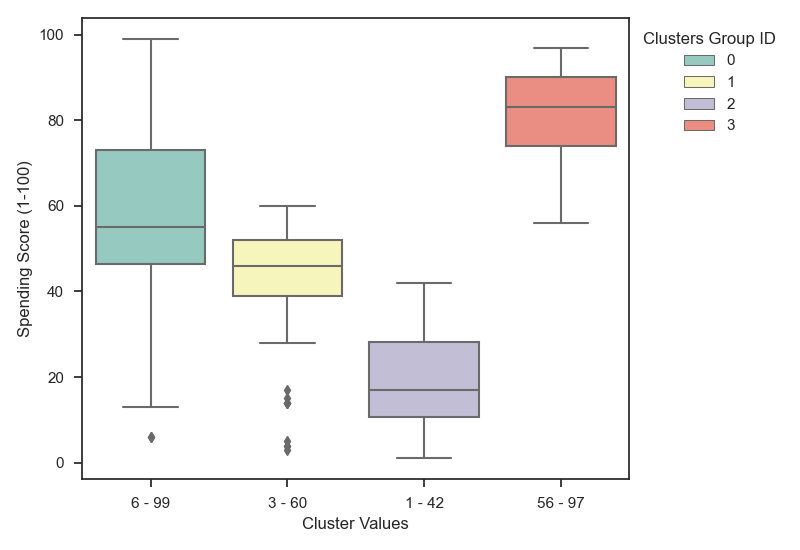
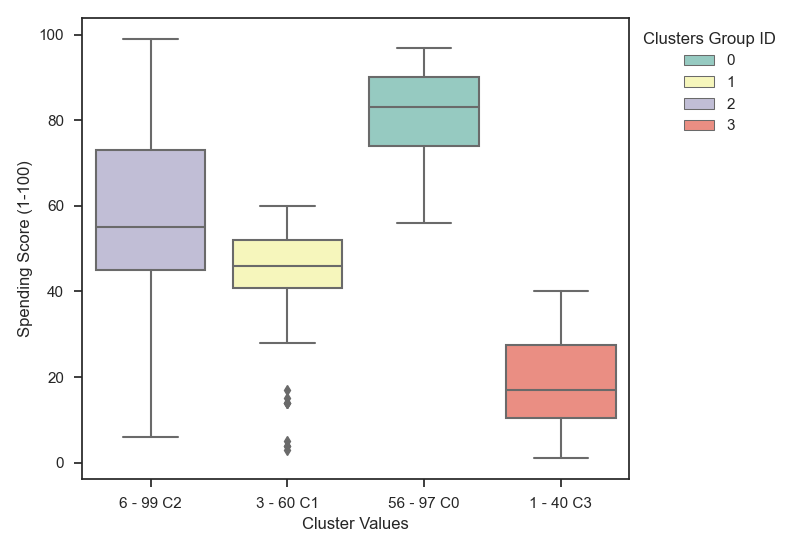
final touches, complete

diff --git a/Marketing_AI_ML/Assignment 6/assignment_six.py b/Marketing_AI_ML/Assignment 6/assignment_six.py
@@ -33,11 +33,14 @@ kmeans.fit(scaled_features)
 data_with_clusters = data.copy()
 data_with_clusters['Clusters'] = kmeans.labels_
 
+
+
 # defining clusters into 4 sepearte DFs
 c0 = data_with_clusters.loc[data_with_clusters['Clusters'] == 0]
 c1 = data_with_clusters.loc[data_with_clusters['Clusters'] == 1]
 c2 = data_with_clusters.loc[data_with_clusters['Clusters'] == 2]
 c3 = data_with_clusters.loc[data_with_clusters['Clusters'] == 3]
+
 
 def elbow_chart():
     visualizer = KElbowVisualizer(KMeans(), k=(1,15)).fit(scaled_features)
@@ -50,19 +53,19 @@ def age_chart():
     #building the cluster labels
     c0_min = min(c0['Age'])
     c0_max = max(c0['Age'])
-    c0_range = ('{} - {}'.format(c0_min, c0_max))
+    c0_range = ('{} - {} C0'.format(c0_min, c0_max))
 
     c1_min = min(c1['Age'])
     c1_max = max(c1['Age'])
-    c1_range = ('{} - {}'.format(c1_min, c1_max))
+    c1_range = ('{} - {} C1'.format(c1_min, c1_max))
 
     c2_min = min(c2['Age'])
     c2_max = max(c2['Age'])
-    c2_range = ('{} - {}'.format(c2_min, c2_max))
+    c2_range = ('{} - {} C2'.format(c2_min, c2_max))
 
     c3_min = min(c3['Age'])
     c3_max = max(c3['Age'])
-    c3_range = ('{} - {}'.format(c3_min, c3_max))
+    c3_range = ('{} - {} C3'.format(c3_min, c3_max))
 
     # the labels would normally have the cluster IDs. i'm replacing them with the cluster ranges above
     data_with_clusters['Cluster Values'] = data_with_clusters['Clusters'].replace([0,1,2,3], [c0_range, c1_range, c2_range, c3_range])
@@ -77,19 +80,19 @@ def Annual_Income_chart():
     #building the cluster labels
     c0_min = min(c0['Annual Income (k$)'])
     c0_max = max(c0['Annual Income (k$)'])
-    c0_range = ('{} - {}'.format(c0_min, c0_max))
+    c0_range = ('{} - {} C0'.format(c0_min, c0_max))
 
     c1_min = min(c1['Annual Income (k$)'])
     c1_max = max(c1['Annual Income (k$)'])
-    c1_range = ('{} - {}'.format(c1_min, c1_max))
+    c1_range = ('{} - {} C1'.format(c1_min, c1_max))
 
     c2_min = min(c2['Annual Income (k$)'])
     c2_max = max(c2['Annual Income (k$)'])
-    c2_range = ('{} - {}'.format(c2_min, c2_max))
+    c2_range = ('{} - {} C2'.format(c2_min, c2_max))
 
     c3_min = min(c3['Annual Income (k$)'])
     c3_max = max(c3['Annual Income (k$)'])
-    c3_range = ('{} - {}'.format(c3_min, c3_max))
+    c3_range = ('{} - {} C3'.format(c3_min, c3_max))
 
     # the labels would normally have the cluster IDs. i'm replacing them with the cluster ranges above
     data_with_clusters['Cluster Values'] = data_with_clusters['Clusters'].replace([0,1,2,3], [c0_range, c1_range, c2_range, c3_range])
@@ -105,19 +108,19 @@ def Spending_Score_chart():
     #building the cluster labels
     c0_min = min(c0['Spending Score (1-100)'])
     c0_max = max(c0['Spending Score (1-100)'])
-    c0_range = ('{} - {}'.format(c0_min, c0_max))
+    c0_range = ('{} - {} C0'.format(c0_min, c0_max))
 
     c1_min = min(c1['Spending Score (1-100)'])
     c1_max = max(c1['Spending Score (1-100)'])
-    c1_range = ('{} - {}'.format(c1_min, c1_max))
+    c1_range = ('{} - {} C1'.format(c1_min, c1_max))
 
     c2_min = min(c2['Spending Score (1-100)'])
     c2_max = max(c2['Spending Score (1-100)'])
-    c2_range = ('{} - {}'.format(c2_min, c2_max))
+    c2_range = ('{} - {} C2'.format(c2_min, c2_max))
 
     c3_min = min(c3['Spending Score (1-100)'])
     c3_max = max(c3['Spending Score (1-100)'])
-    c3_range = ('{} - {}'.format(c3_min, c3_max))
+    c3_range = ('{} - {} C3'.format(c3_min, c3_max))
 
     # the labels would normally have the cluster IDs. i'm replacing them with the cluster ranges above
     data_with_clusters['Cluster Values'] = data_with_clusters['Clusters'].replace([0,1,2,3], [c0_range, c1_range, c2_range, c3_range])
@@ -130,9 +133,38 @@ def Spending_Score_chart():
 
 def overall_data():
     #since for the project I selected Cluster 3 for analysis, i'm doing analysis for that cluster.
+    #linear regression plots
+    df = c3
+
+    sns.lmplot(x='Annual Income (k$)', y='Spending Score (1-100)', data = df)
+    sns.lmplot(x='Age', y='Spending Score (1-100)', data = df)
+    sns.lmplot(x='Age', y='Annual Income (k$)', data = df)
+    print("\n")
+    plt.show()
+
+    x = df['Age']
+    y = df['Annual Income (k$)']
+    z = df['Spending Score (1-100)']
+
+    #performing different correlation analysis 
+    income_spend_corr = y.corr(z)
+    age_spend_corr = x.corr(z)
+    age_income_corr = x.corr(y)
+    correlation = ' Correlation: \nincome_spending correlation: {} \nage_spending correlation: {}\nage_income correlation: {}\n'.format(income_spend_corr, age_spend_corr, age_income_corr)
+    print(correlation)
+    print("\n")
+
+    #performing different means of each attribute
+    age_mean = df['Age'].mean()
+    income_mean = df['Annual Income (k$)'].mean()
+    spend_mean = df['Spending Score (1-100)'].mean()
+    means = ' means: \nage mean: {} \nspend mean: {} \nincome mean: {}'.format(age_mean, spend_mean, income_mean)
+    print(means)
+    print("\n")
 
     #ols can't handle non-alphanumeric characters
     c3.rename(columns={'Spending Score (1-100)': "Spend", 'Annual Income (k$)':'Income'}, inplace=True)
+    #performing ANOVA
     lm = ols('Spend ~ Gender + Age + Income', data=c3).fit()
     print('Male & Female stats')
     print(lm.summary())
@@ -145,12 +177,15 @@ def gender_data(gender_id):
         if gender_id == value:
             gender_name = key
 
+    
     #only selecting values that match the gender ID from the cluster selected
     df = c3.loc[c3['Gender'] == gender_id]
+    # print(df)
     #linear regression plots
     sns.lmplot(x='Annual Income (k$)', y='Spending Score (1-100)', data = df)
     sns.lmplot(x='Age', y='Spending Score (1-100)', data = df)
     sns.lmplot(x='Age', y='Annual Income (k$)', data = df)
+    plt.show()
 
     x = df['Age']
     y = df['Annual Income (k$)']
@@ -173,7 +208,6 @@ def gender_data(gender_id):
     #ANOVA 
     df.rename(columns={'Spending Score (1-100)': "Spend", 'Annual Income (k$)':'Income'}, inplace=True)
     lm = ols('Spend ~ Age + Income', data=df).fit()
-    table = sm.stats.anova_lm(lm)
     print(lm.summary())
 
 if __name__ == "__main__":
@@ -181,6 +215,8 @@ if __name__ == "__main__":
     # Annual_Income_chart()
     # Spending_Score_chart()
     # elbow_chart()
-    # gender_data(1)
-    # gender_data(2)
-    overall_data()
+    
+    # overall_data()
+    # male = gender_data(1)
+    # female = gender_data(2)
+    

diff --git a/Marketing_AI_ML/Assignment 6/notebook_assignment_six.py b/Marketing_AI_ML/Assignment 6/notebook_assignment_six.py
@@ -2,55 +2,115 @@
 # %%
 import pandas as pd
 import numpy as np
-from matplotlib import pyplot as plt
 from sklearn.cluster import KMeans
 from sklearn.preprocessing import StandardScaler
 from yellowbrick.cluster import KElbowVisualizer
-import seaborn as sns
+from sklearn.metrics import r2_score
+import matplotlib.pyplot as plt
+import os 
+import seaborn as sns; sns.set(style="ticks", color_codes=True)
+from scipy.stats import ttest_1samp, f_oneway, ttest_ind
+import statsmodels.api as sm
+from statsmodels.formula.api import ols
 
+current_dir = os.getcwd()
+
+# defining the file and dropping genre since pandas doesn't like strings
 file_name = "Mall_Customers.csv"
-df = pd.read_csv(file_name)
+df = pd.read_csv(file_name).rename(columns={'Genre': 'Gender'})
+gender_cat = {'Male': 1, 'Female': 2}
+# data = df.drop(columns=['Genre'])
+df['Gender'] = df['Gender'].map(gender_cat)
+data = df
 
-data = df.drop(columns=['Genre'])
-
+#using a scaler to standardize the data
 scaler = StandardScaler()
 scaled_features = scaler.fit_transform(data)
 
-visualizer = KElbowVisualizer(KMeans(), k=(1,15)).fit(scaled_features)
-plt.legend(loc=2, bbox_to_anchor= (1,1))
-visualizer.show()
-#%%
+#After looking at the elbow_chart function below, determined n_clusters to be 4. Now fitting the scaled_features to
+# a 4 seed cluster
 kmeans = KMeans(n_clusters=4, init='k-means++', max_iter=300, n_init=15, random_state=0)
 kmeans.fit(scaled_features)
 
-scaled_features
-
+#copying the fitted data to a new df, and adding the clusters column 
 data_with_clusters = data.copy()
 data_with_clusters['Clusters'] = kmeans.labels_
-#%%
+
+# defining clusters into 4 sepearte DFs
 c0 = data_with_clusters.loc[data_with_clusters['Clusters'] == 0]
 c1 = data_with_clusters.loc[data_with_clusters['Clusters'] == 1]
 c2 = data_with_clusters.loc[data_with_clusters['Clusters'] == 2]
 c3 = data_with_clusters.loc[data_with_clusters['Clusters'] == 3]
+c3
+#%%
+sns.lmplot(x='Annual Income (k$)', y='Spending Score (1-100)', data = c3)
+sns.lmplot(x='Age', y='Spending Score (1-100)', data = c3)
+sns.lmplot(x='Age', y='Annual Income (k$)', data = c3)
 
-c0_min = min(c0['Age'])
-c0_max = max(c0['Age'])
-c0_range = ('{} - {}'.format(c0_min, c0_max))
+x = c3['Age']
+y = c3['Annual Income (k$)']
+z = c3['Spending Score (1-100)']
 
-c1_min = min(c1['Age'])
-c1_max = max(c1['Age'])
-c1_range = ('{} - {}'.format(c1_min, c1_max))
+age_income_corr = x.corr(y)
+age_spend_corr = x.corr(z)
+income_spend_corr = y.corr(z)
+#%%
+male_df = c3.loc[c3['Gender'] == 1]
+male_df
 
-c2_min = min(c2['Age'])
-c2_max = max(c2['Age'])
-c2_range = ('{} - {}'.format(c2_min, c2_max))
+sns.lmplot(x='Annual Income (k$)', y='Spending Score (1-100)', data = male_df)
+sns.lmplot(x='Age', y='Spending Score (1-100)', data = male_df)
+sns.lmplot(x='Age', y='Annual Income (k$)', data = male_df)
 
-c3_min = min(c3['Age'])
-c3_max = max(c3['Age'])
-c3_range = ('{} - {}'.format(c3_min, c3_max))
+m_x = male_df['Age']
+m_y = male_df['Annual Income (k$)']
+m_z = male_df['Spending Score (1-100)']
 
-data_with_clusters['Clusters'] = data_with_clusters['Clusters'].replace([0,1,2,3], [c0_range, c1_range, c2_range, c3_range])
-box = sns.boxplot(x=data_with_clusters['Clusters'], y=data_with_clusters['Age'], palette="Set3")
+m_income_spend_corr = y.corr(z)
+m_age_spend_corr = x.corr(z)
+m_age_income_corr = x.corr(y)
+
+m_age_mean = male_df['Age'].mean()
+m_spend_mean = male_df['Annual Income (k$)'].mean()
+m_income_mean = male_df['Spending Score (1-100)'].mean()
+
 # %%
-kmeans.labels_
+female_df = c3.loc[c3['Gender'] == 2]
+sns.lmplot(x='Annual Income (k$)', y='Spending Score (1-100)', data = female_df)
+sns.lmplot(x='Age', y='Spending Score (1-100)', data = female_df)
+sns.lmplot(x='Age', y='Annual Income (k$)', data = female_df)
+
+f_x = female_df['Age']
+f_y = female_df['Annual Income (k$)']
+f_z = female_df['Spending Score (1-100)']
+
+f_income_spend_corr = y.corr(z)
+f_age_spend_corr = x.corr(z)
+f_age_income_corr = x.corr(y)
+
+f_age_mean = male_df['Age'].mean()
+f_spend_mean = male_df['Annual Income (k$)'].mean()
+f_income_mean = male_df['Spending Score (1-100)'].mean()
+
+ 
+#%%
+test = ttest_1samp(female_df['Age'], b=female_df['Spending Score (1-100)'].mean(), equal_var=True)
+test
+# %%
+df = data.rename(columns={'Spending Score (1-100)': "Spend", 'Annual Income (k$)':'Income'}, inplace=True)
+# %%
+lm = ols('Spend ~ Gender + Age + Income', data=c3).fit()
+table = sm.stats.anova_lm(lm)
+# %%
+print(lm.summary())
+# %%
+male_df.rename(columns={'Spending Score (1-100)': "Spend", 'Annual Income (k$)':'Income'}, inplace=True)
+lm = ols('Spend ~ Age + Income', data=male_df).fit()
+table = sm.stats.anova_lm(lm)
+print(lm.summary())
+# %%
+female_df.rename(columns={'Spending Score (1-100)': "Spend", 'Annual Income (k$)':'Income'}, inplace=True)
+lm = ols('Spend ~ Age + Income', data=female_df).fit()
+table = sm.stats.anova_lm(lm)
+print(lm.summary())
 # %%
